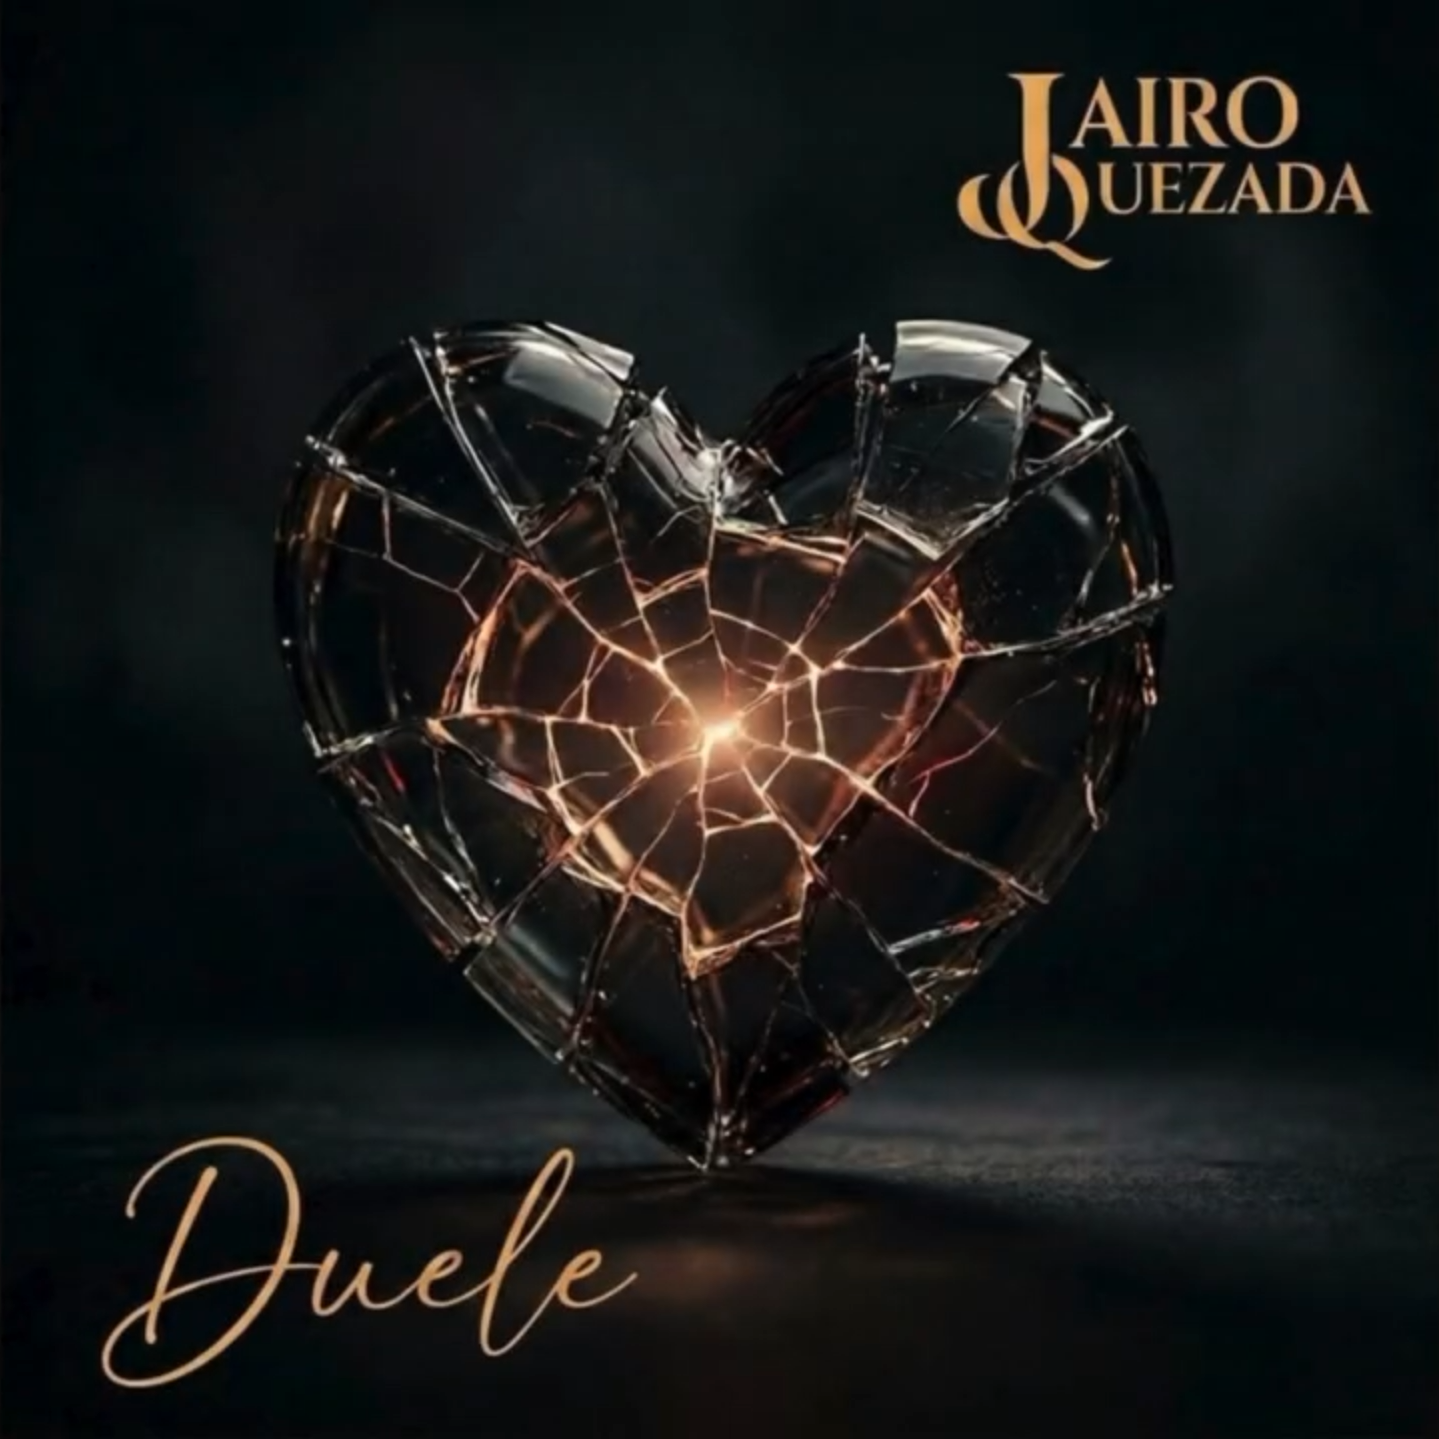
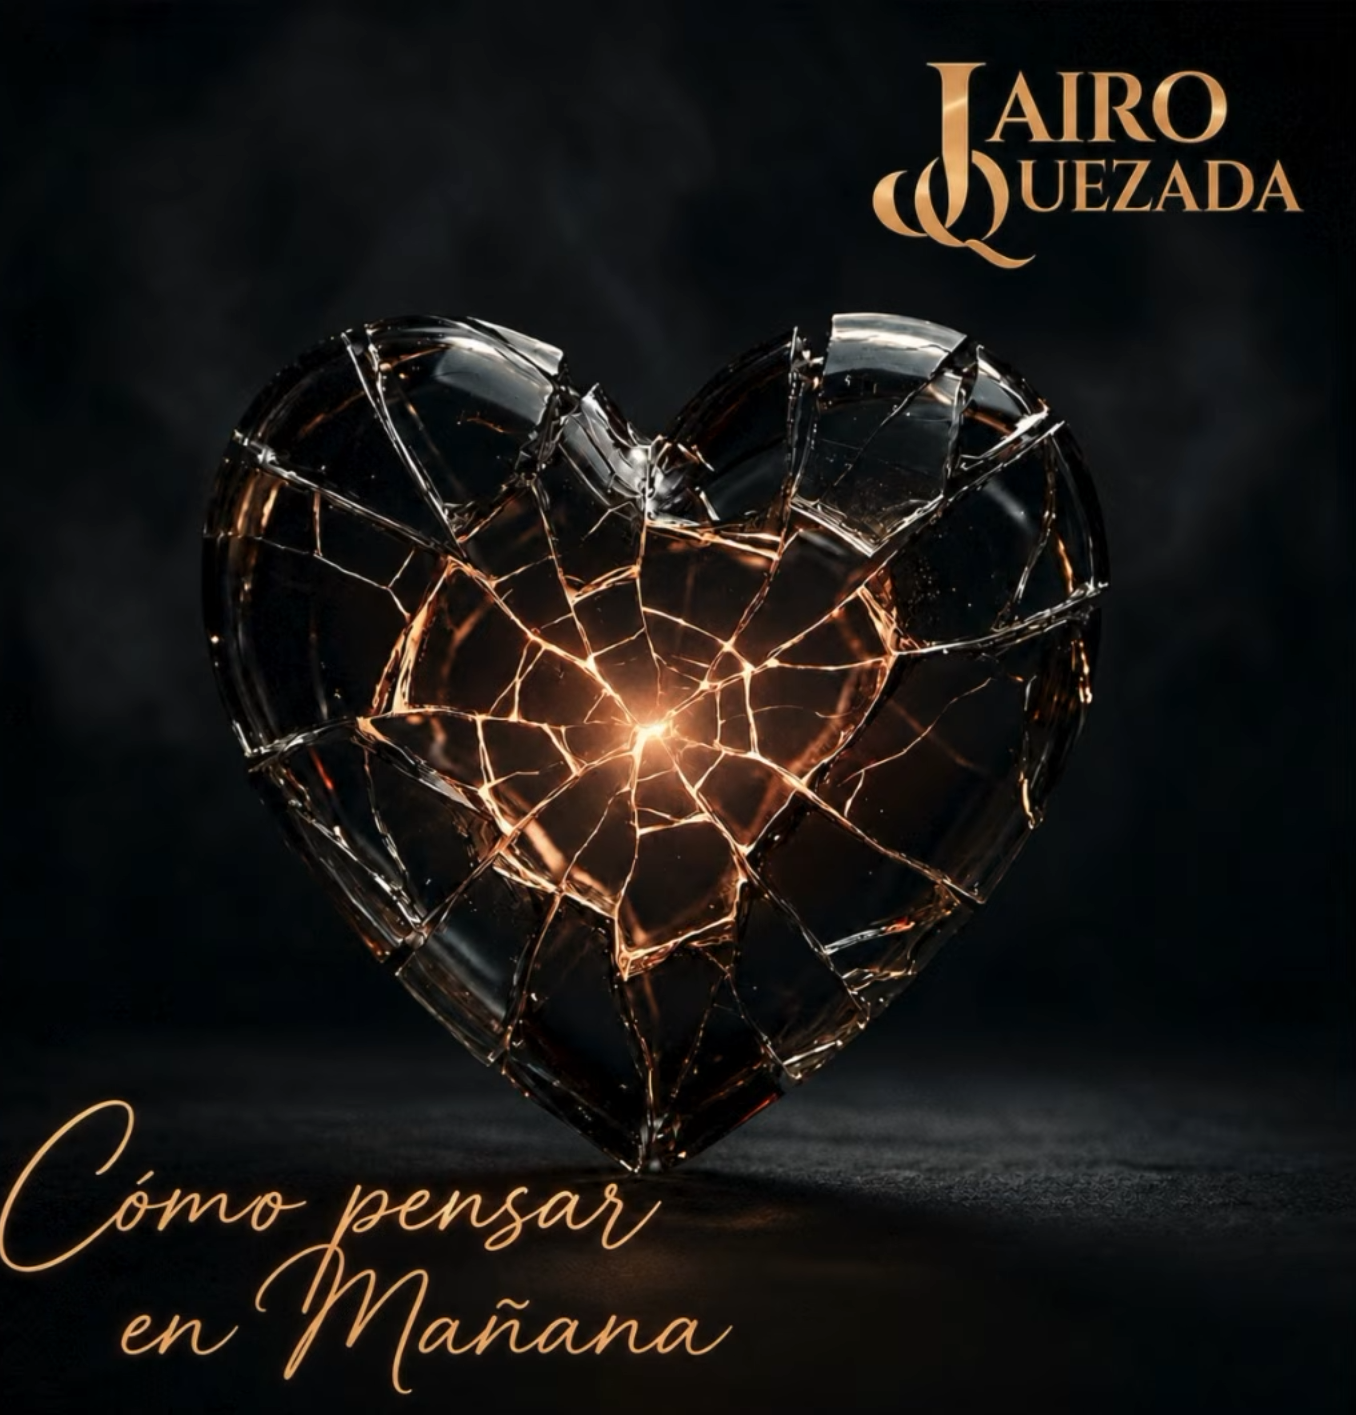
PreResponsive

diff --git a/app/components/Musica.tsx b/app/components/Musica.tsx
@@ -50,11 +50,11 @@ const categorias = [
     {
         nombre: "Sencillos",
         videos: [
-            { titulo: "A la deriva", id: "PiqvKFYomdA" },
             { titulo: "Viaje Espacial", id: "H-PqrrTdJSw" },
             { titulo: "Desnudos", id: "pY8ANO8jDQ4", portada: "/caratula-desnudos.png" },
             { titulo: "Ya me sané", id: "jFNBxR1MC18" },
             { titulo: "Duele", id: "hK-cf9qM7xs" },
+            { titulo: "Cómo pensar en mañana", id: "lyQrgyuSd4k" },
         ],
     },
     {
@@ -91,6 +91,13 @@ const categorias = [
             { titulo: "Presentación semifinales", id: "EFG5ERDzlbY" },
         ],
     },
+];
+
+const plataformas = [
+    { nombre: "Spotify", url: "https://open.spotify.com/intl-es/artist/5Xc7HccmWZ0fLqTnhNVvzC" },
+    { nombre: "Apple Music", url: "https://music.apple.com/cl/artist/jairo-quezada/1586396880" },
+    { nombre: "YouTube Music", url: "https://music.youtube.com/channel/UC4fQkMEShppmmSXAAdsLKIQ" },
+    { nombre: "Deezer", url: "https://www.deezer.com/es/artist/268562172" },
 ];
 
 export default function Musica() {
@@ -152,6 +159,26 @@ export default function Musica() {
                         </Reveal>
                     ))}
                 </div>
+                <Reveal>
+                    <div className="mt-24 pt-16 border-t border-accent/10 text-center">
+                        <p className="text-ink-muted text-sm tracking-[0.15em] uppercase mb-8 font-[family-name:var(--font-playfair)]">
+                            Disponible en todas las plataformas
+                        </p>
+                        <div className="flex justify-center gap-10 flex-wrap">
+                            {plataformas.map((p) => (
+                                <a
+                                    key={p.nombre}
+                                    href={p.url}
+                                    target="_blank"
+                                    rel="noopener noreferrer"
+                                    className="text-ink-muted hover:text-accent transition-colors text-lg font-[family-name:var(--font-playfair)]"
+                                >
+                                    {p.nombre}
+                                </a>
+                            ))}
+                        </div>
+                    </div>
+                </Reveal>
             </Container>
         </section>
     );

diff --git a/app/components/Trayectoria.tsx b/app/components/Trayectoria.tsx
@@ -21,10 +21,10 @@ const logros = [
     { año: "2022", texto: "Participación en \"Yo Soy Chile\" interpretando a Luis Miguel" },
     { año: "2023", texto: "Participación en The Voice Chile" },
     { año: "2023", texto: "Campeón nacional KWC Chile — semifinales en Panamá" },
-    { año: "2023", texto: "Lanzamiento del sencillo \"A la deriva\"" },
     { año: "2024", texto: "Lanzamiento del sencillo \"Desnudos\"" },
     { año: "2026", texto: "Lanzamiento del sencillo \"Ya me sané\"" },
     { año: "2026", texto: "Lanzamiento del sencillo \"Duele\"" },
+    { año: "2026", texto: "Lanzamiento del sencillo \"Cómo pensar en mañana\"" },
 ];
 
 const CANTIDAD_INICIAL = 4;
